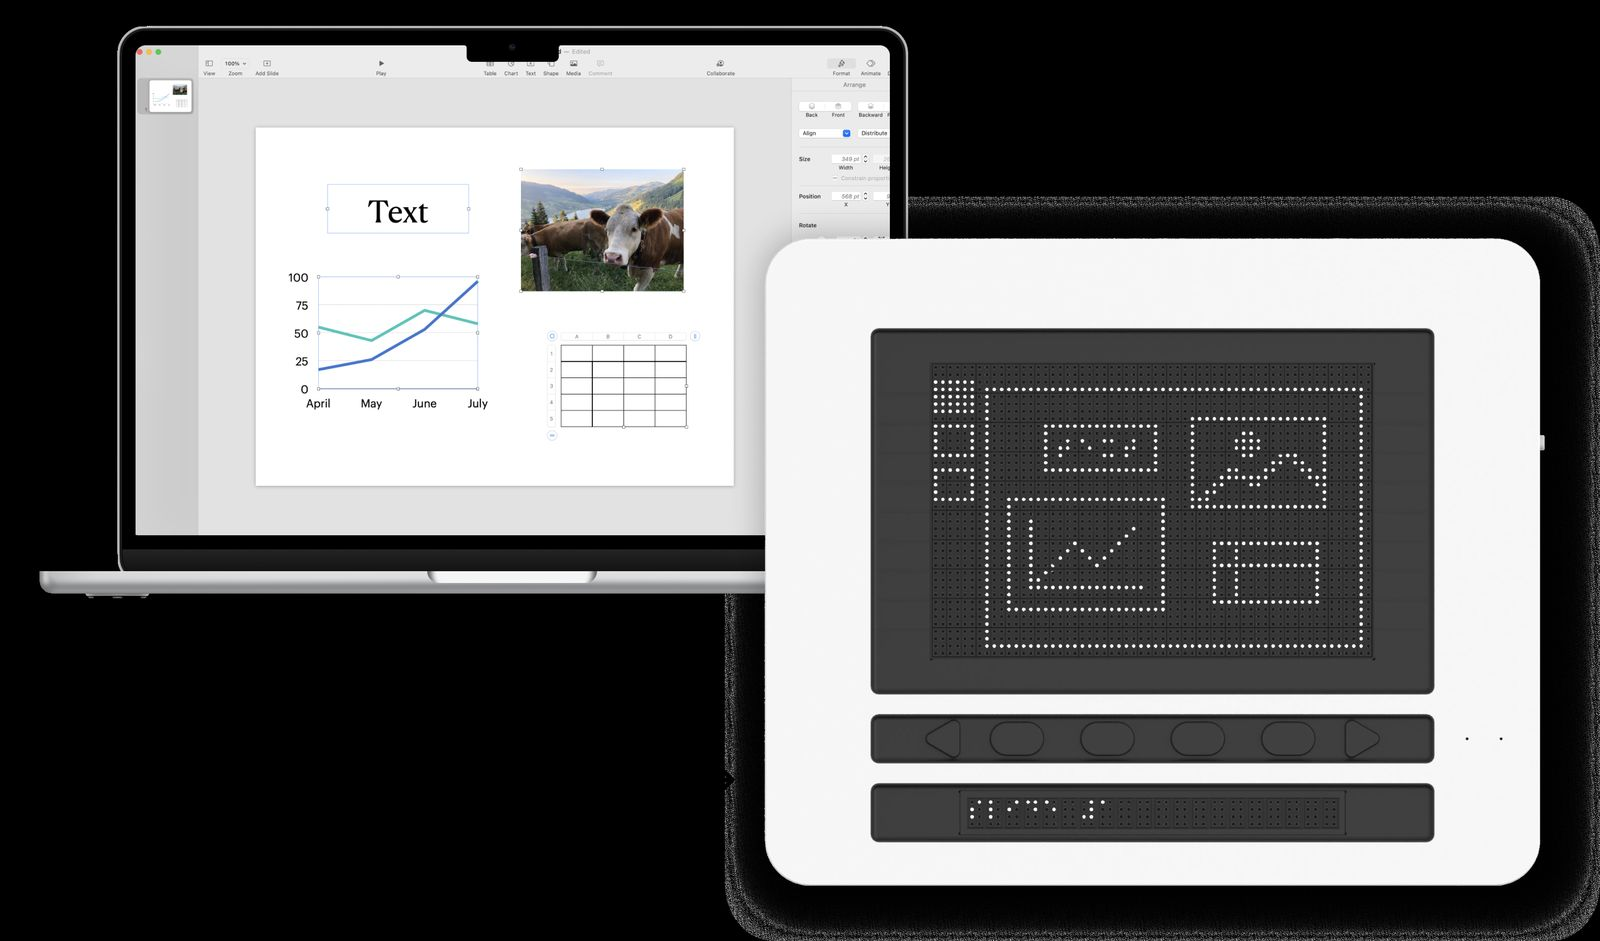
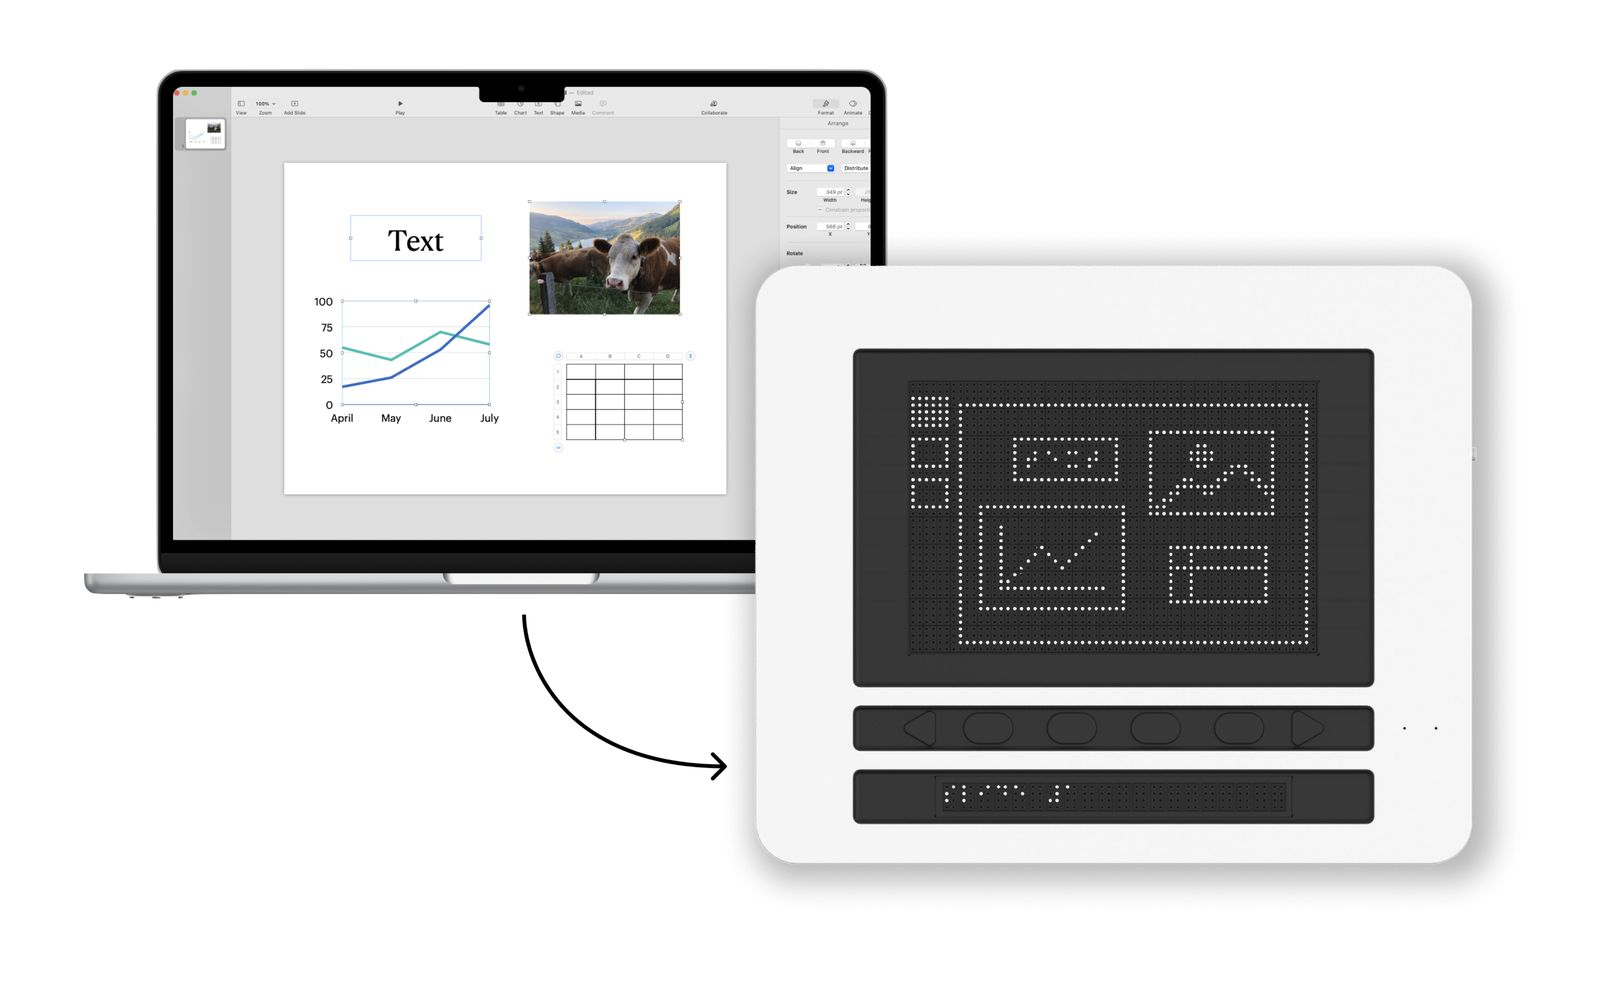
updated for specific portfolio review with new config.js. Added readme.

diff --git a/js/data.js b/js/data.js
@@ -17,9 +17,9 @@ I aimed to create a more reliable way to track mood over time, recognizing that 
 <div class="my-12 flex justify-center"><img src="images/projects/mood-logger/story-emotion-tracking-assistant-eeWi.jpg" alt="Companion device sketches" class="max-w-full rounded-2xl shadow-xl border border-gray-100 cursor-zoom-in" loading="lazy" onclick="openLightbox(this.src)" /></div>
 <p class="mb-6 leading-relaxed text-gray-700">However, I quickly realized a critical flaw: such a device could have the negative effect of constantly reminding users of their bad moods, which is counterproductive for many who struggle with anxiety or depression.</p>
 <h2 class="text-2xl font-bold mt-12 mb-6 text-gray-900 border-b border-gray-100 pb-3">Mood tracking apps</h2>
-In order to capture a wider timeline of emotions, not just those occurring while around the physical device, I explored mood-tracking apps. A common issue I noticed was that most relied on a one-dimensional "Bad-to-Good" scale, which I found inaccurate. The <em>How We Feel</em> app, which organizes emotions based on the two dimensions of <strong>valence</strong> (pleasantness) and <strong>arousal</strong> (energy), offered a much more accurate model.
+In order to capture a wider timeline of emotions, not just those occurring while around the physical device, I explored mood-tracking apps. A common issue I noticed was that most relied on a one-dimensional "Bad-to-Good" scale, which I found inaccurate. The app, which organizes emotions based on the two dimensions of <strong>valence</strong> (pleasantness) and <strong>arousal</strong> (energy), offered a much more accurate model.
 <div class="my-12 flex justify-center"><img src="images/projects/mood-logger/story-emotion-tracking-assistant-2Kgl.jpg" alt="How We Feel app UI" class="max-w-full rounded-2xl shadow-xl border border-gray-100 cursor-zoom-in" loading="lazy" onclick="openLightbox(this.src)" /></div>
-<em>Screenshot:</em> How We Feel <em>App</em>
+<em>Screenshot:How We Feel App</em>
 <p class="mb-6 leading-relaxed text-gray-700">While this was app was surprisingly effective for building emotional vocabulary, it led to a new problem: I became an expert at describing negative states but rarely remembered to log positive ones. The act of sifting through negative terms to find the right one often led to a feedback loop that often deepened my negative mood.</p>
 <hr class="my-12 border-gray-200">
 <h3 class="text-xl font-bold mt-10 mb-4 text-gray-900">Mood tracking fidget cube</h3>
@@ -163,7 +163,7 @@ We exhibited this project at the 2025 Ars Electronica festival under the theme "
     {
       "id": "005",
       "thumbnailUrl": "images/projects/foggy/thumbnail-foggy-seeing-reality-in-the-low-res-SQ.jpg",
-      "title": "Foggy - seeing reality in the low res",
+      "title": "Foggy - seeing reality in low res",
       "description": "Less pixels for more realism: Using a diffused low resolution LED matrix to create impressionistic abstractions of recognizable scenes and video sequences",
       "company": "ZHdK",
       "status": "published",
@@ -184,11 +184,9 @@ I was inspired by artists such as Jim Campell (middle) and design studios such a
 <hr class="my-12 border-gray-200">
 <h2 class="text-2xl font-bold mt-12 mb-6 text-gray-900 border-b border-gray-100 pb-3">Process</h2>
 Due to the limited amount of time I intended to use supplies I already had for prototyping.
-<ol>
-<li>The original idea involved using an ESP32CAM to stream live footage to another ESP32 controlling a 64x64 LED Matrix via the HUB75 interface.</li>
-<li>I quickly realized that it might be easier to demonstrate using a Raspberry Pi due to its memory and processing capabilities, as I was intending to control quite a large amount of LEDs.</li>
-<li>I finally decided that demo videos would likely be more effective to convey my message, letting me choose what scene I want to show and being much simpler to implement technically. I also decided to switch to an existing 8x8 LED Matrix that I already had, as its form factor made it easy to transport and I didn't need to build my own grid from one long string of LEDs.</li>
-</ol>
+<p class="mb-6 leading-relaxed text-gray-700">1. The original idea involved using an ESP32CAM to stream live footage to another ESP32 controlling a 64x64 LED Matrix via the HUB75 interface.
+2. I quickly realized that it might be easier to demonstrate using a Raspberry Pi due to its memory and processing capabilities, as I was intending to control quite a large amount of LEDs.
+3. I finally decided that demo videos would likely be more effective to convey my message, letting me choose what scene I want to show and being much simpler to implement technically. I also decided to switch to an existing 8x8 LED Matrix that I already had, as its form factor made it easy to transport and I didn't need to build my own grid from one long string of LEDs.</p>
 <div class="my-12 flex justify-center"><img src="images/projects/foggy/story-foggy-seeing-reality-in-the-low-res-CdgA.jpg" alt="Process" class="max-w-full rounded-2xl shadow-xl border border-gray-100 cursor-zoom-in" loading="lazy" onclick="openLightbox(this.src)" /></div>
 <hr class="my-12 border-gray-200">
 <h2 class="text-2xl font-bold mt-12 mb-6 text-gray-900 border-b border-gray-100 pb-3">Implementation</h2>
@@ -321,7 +319,7 @@ The main sources of inspiration for this project stemmed from the following:
 <ul class="my-8 space-y-2"><li class="ml-6 mb-2 list-disc pl-2 text-gray-700">The reddit project r/place, a digital online canvas allowing the entire online community to collectively create pixel art.</li>
 <li class="ml-6 mb-2 list-disc pl-2 text-gray-700">Valentin Ruhry’s and Simone Giertz’s grids of illuminated switches.</li>
 <li class="ml-6 mb-2 list-disc pl-2 text-gray-700">“The Everbright”, an installation seen at the San Jose Science Museum in 2021.</li>
-<p class="mb-6 leading-relaxed text-gray-700"></ul>Andy developed a physical version of r/place in 2023 with <a href="https://andykong.org/projects/gridworld/" target="_blank" class="text-blue-600 hover:text-blue-800 underline underline-offset-4 decoration-2 transition-all font-medium">GridWorld</a>, a virtual canvas that was displayed in real time on a physical LED screen. My own ideas came from previous projects such as <a href="/p/6852" target="_blank" class="text-blue-600 hover:text-blue-800 underline underline-offset-4 decoration-2 transition-all font-medium">GlowGrid</a> and my work in tactile user interfaces.</p>
+<p class="mb-6 leading-relaxed text-gray-700"></ul>Andy developed a physical version of r/place in 2023 with <a href="https://andykong.org/projects/gridworld/" target="_blank" class="text-blue-600 hover:text-blue-800 underline underline-offset-4 decoration-2 transition-all font-medium">GridWorld</a>, a virtual canvas that was displayed in real time on a physical LED screen. My own ideas came from previous projects such as [GlowGrid] and my work in tactile user interfaces.</p>
 <hr class="my-12 border-gray-200">
 <h2 class="text-2xl font-bold mt-12 mb-6 text-gray-900 border-b border-gray-100 pb-3">Use cases by configuration</h2>
 The following are some of the potential use cases for this project. We have not yet attempted to evaluate the feasibility of each of the ideas to narrow down the scope of the project, as we believe users will find their own unique and creative uses for the product once they are given access.

diff --git a/index.html b/index.html
@@ -85,7 +85,7 @@
                         Download Resume
                     </a>
 
-                    <a href="mailto:hello@example.com"
+                    <a href="mailto:silvan.j.roth@gmail.com"
                         class="flex items-center justify-center gap-2 px-4 py-2 bg-white border border-gray-200 rounded-lg shadow-sm text-sm font-semibold text-gray-700 hover:bg-gray-50 transition-all w-48 md:w-full">
                         <svg class="w-4 h-4 text-gray-500" fill="currentColor" viewBox="0 0 20 20">
                             <path d="M2.003 5.884L10 9.882l7.997-3.998A2 2 0 0016 4H4a2 2 0 00-1.997 1.884z"></path>
@@ -144,7 +144,7 @@
         <div class="relative w-full h-full flex items-center justify-center overflow-hidden"
             id="lightbox-zoom-container">
             <img id="lightbox-img" src="" alt="Zoomable Image"
-                class="max-w-full max-h-full object-contain shadow-2xl transition-transform duration-200" />
+                class="max-w-full max-h-full object-contain shadow-2xl transition-transform duration-200 bg-white" />
         </div>
 
         <!-- Zoom Controls -->
@@ -167,6 +167,7 @@
     </div>
 
     <!-- Scripts -->
+    <script src="js/config.js"></script>
     <script src="js/data.js"></script>
     <script src="js/main.js"></script>
 </body>

diff --git a/js/main.js b/js/main.js
@@ -35,12 +35,24 @@ function sortProjectsByDate(projects) {
     return [...projects].sort((a, b) => parseProjectEndDate(b.date) - parseProjectEndDate(a.date));
 }
 
+function getOrderedProjects(projects) {
+    const hidden = (typeof hiddenProjectIds !== 'undefined' && hiddenProjectIds) ? new Set(hiddenProjectIds) : new Set();
+    const visible = projects.filter(p => !hidden.has(p.id));
+    if (typeof customProjectOrder === 'undefined' || !customProjectOrder || customProjectOrder.length === 0) {
+        return sortProjectsByDate(visible);
+    }
+    const prioritized = customProjectOrder.map(id => visible.find(p => p.id === id)).filter(Boolean);
+    const prioritizedIds = new Set(customProjectOrder);
+    const remaining = sortProjectsByDate(visible.filter(p => !prioritizedIds.has(p.id)));
+    return [...prioritized, ...remaining];
+}
+
 function renderPortfolioGrid() {
     const gridEl = document.getElementById('portfolio-grid');
     if (!gridEl) return;
 
     let html = '';
-    const sortedProjects = sortProjectsByDate(projectsData);
+    const sortedProjects = getOrderedProjects(projectsData);
 
     sortedProjects.forEach(project => {
         // Only show published projects on the main grid

diff --git a/js/config.js b/js/config.js
@@ -1,0 +1,32 @@
+const profiles = {
+    default: {
+        customProjectOrder: [],
+        hiddenProjectIds: [],
+    },
+    jobApp: {
+        customProjectOrder: [
+            "003",  // Wearable Sensor Docking Station
+            "014",  // Dot Inc x Apple
+            "006",  // Rebuilding the CLAW
+            "002",  // Puppet Synthesizer
+            "007",  // Wearable Devices Prototyping (PPG)
+            "001",  // Mood Logger
+            "7846", // Audio-to-Haptics Hardware Interface
+            "008",  // InteracTiles
+            "005",  // Foggy
+        ],
+        hiddenProjectIds: [
+            "016",  // Freitag Labs x HSLU
+            "015",  // Industrial Project in Offshore Wind
+            "012",  // Ambulance Fleet Management
+            "011",  // HackZurich 2023: Remy
+            "009",  // UX Consulting and Redesign
+        ],
+    },
+};
+
+// ← change this line to switch audiences
+const activeProfile = profiles.jobApp;
+
+const customProjectOrder = activeProfile.customProjectOrder;
+const hiddenProjectIds = activeProfile.hiddenProjectIds;

diff --git a/project.html b/project.html
@@ -69,7 +69,7 @@
             </svg>
         </button>
         <!-- Lightbox Image -->
-        <img id="lightbox-img" src="" alt="Zoomed view" class="max-h-full max-w-full object-contain cursor-grab"
+        <img id="lightbox-img" src="" alt="Zoomed view" class="max-h-full max-w-full object-contain cursor-grab bg-white"
             draggable="false" />
     </div>
 

diff --git a/css/style.css b/css/style.css
@@ -46,6 +46,10 @@ img {
     max-width: 100%;
 }
 
+#project-container img {
+    background-color: white;
+}
+
 a {
     text-decoration: none;
     color: inherit;

diff --git a/README.md b/README.md
@@ -1,0 +1,155 @@
+# Portfolio Website — How It Works
+
+This is a static website (no backend, no database) that you can open directly in a browser or host anywhere. All the project content lives in simple text files on your computer, and a Python script converts them into the website.
+
+---
+
+## Folder Structure
+
+```
+Portfolio-Website/
+│
+├── index.html          ← The main portfolio grid page
+├── project.html        ← The individual project detail page
+│
+├── css/
+│   └── style.css       ← All the visual styling
+│
+├── js/
+│   ├── config.js       ← Audience profiles (what to show/hide) — edit this
+│   ├── data.js         ← All project content, auto-generated — don't edit directly
+│   ├── main.js         ← Powers the grid and sorting logic
+│   └── project.js      ← Powers the individual project page
+│
+├── projects/           ← One folder per project, with your content files
+│   ├── mood-logger/
+│   │   ├── archive.md  ← Project metadata and story text
+│   │   ├── images/     ← Images used in this project's story
+│   │   └── vault/      ← Raw/archived files, ignored by the website
+│   ├── foggy/
+│   ├── haptics_kit/
+│   └── ...
+│
+├── images/
+│   └── projects/       ← Compressed images, auto-generated — don't edit directly
+│
+├── generate_data.py    ← The script that reads all archive.md files and builds data.js
+└── extract_projects.py ← One-time tool to pull old project data from Showspace
+```
+
+---
+
+## How a Project Gets on the Website
+
+Each project lives in its own folder inside `projects/`. The key file in each folder is `archive.md`, which has two parts:
+
+**1. The frontmatter (top section between `---` markers)** — this is the metadata:
+
+```
+---
+id: 001
+title: "Mood Logger"
+description: "A fidget cube to track your mood."
+type: "Interaction Design"
+date: "Nov 2025"
+status: published
+thumbnailUrl: "images/thumbnail.jpg"
+skills:
+  - "Industrial Design"
+  - "ESP32"
+---
+```
+
+**2. The body (everything below the second `---`)** — this is the story, written in Markdown. Regular paragraphs, headings with `##`, images with `![caption](filename.jpg)`, bold with `**text**`.
+
+When you run `generate_data.py`, it reads every `archive.md` file and converts all of this into `js/data.js`, which is what the website actually uses.
+
+**Projects with `status: published` appear on the grid. Everything else is hidden.**
+
+---
+
+## Updating Content — The Workflow
+
+1. Edit (or create) an `archive.md` file in the relevant project folder
+2. Drop any new images into that project's `images/` subfolder
+3. Run the script from your terminal:
+   ```
+   python3 generate_data.py
+   ```
+4. The script updates `js/data.js` and compresses any new images into `images/projects/`
+5. Open `index.html` in your browser to see the result
+
+The script is safe to run repeatedly — it skips images that haven't changed.
+
+---
+
+## Controlling What the Grid Shows — config.js
+
+`js/config.js` lets you curate the website for different audiences without touching any project files.
+
+It works with **named profiles**. Each profile can:
+- Pin specific projects to the top of the grid in a fixed order
+- Hide projects entirely
+
+```js
+const profiles = {
+    default: {
+        customProjectOrder: [],   // empty = sort by date, newest first
+        hiddenProjectIds: [],     // empty = show everything published
+    },
+    jobApp: {
+        customProjectOrder: [
+            "003",  // appears first
+            "014",  // appears second
+            // ... and so on
+        ],
+        hiddenProjectIds: [
+            "016",  // hidden from grid
+            "015",
+        ],
+    },
+};
+
+// ← Change this one line to switch audiences
+const activeProfile = profiles.jobApp;
+```
+
+To switch back to the default public view, change the last line to:
+```js
+const activeProfile = profiles.default;
+```
+
+To add a new audience profile, add another entry to `profiles` and switch to it.
+
+**This file is not touched by `generate_data.py`** — it's safe to edit at any time.
+
+---
+
+## The Python Scripts
+
+### `generate_data.py` — Run this whenever you update content
+
+Reads all `archive.md` files, converts Markdown to HTML, compresses images, and writes everything into `js/data.js`. This is the only file you need to run regularly.
+
+**What it does:**
+- Parses the frontmatter metadata from each `archive.md`
+- Converts the Markdown story body to HTML (headings, images, bold, links, lists)
+- Compresses images to JPEG at 80% quality, max 1600px wide, skipping ones already processed
+- Outputs everything as a single JavaScript file (`js/data.js`)
+
+**What it doesn't touch:** `config.js`, `index.html`, `project.html`, `style.css`, or anything in `js/` except `data.js`.
+
+### `extract_projects.py` — One-time migration tool
+
+This was used to pull project data from Showspace (the old platform) into `extracted_data.json`. You probably won't need to run it again — it's kept as a backup reference.
+
+---
+
+## Adding a New Project
+
+1. Create a new folder in `projects/` (use lowercase with hyphens, e.g. `projects/my-new-project/`)
+2. Create `archive.md` inside it — copy the frontmatter structure from an existing project
+3. Pick an `id` that isn't already in use (check other `archive.md` files)
+4. Set `status: draft` while you're working on it, change to `published` when ready
+5. Add images to `projects/my-new-project/images/`
+6. Run `python3 generate_data.py`
